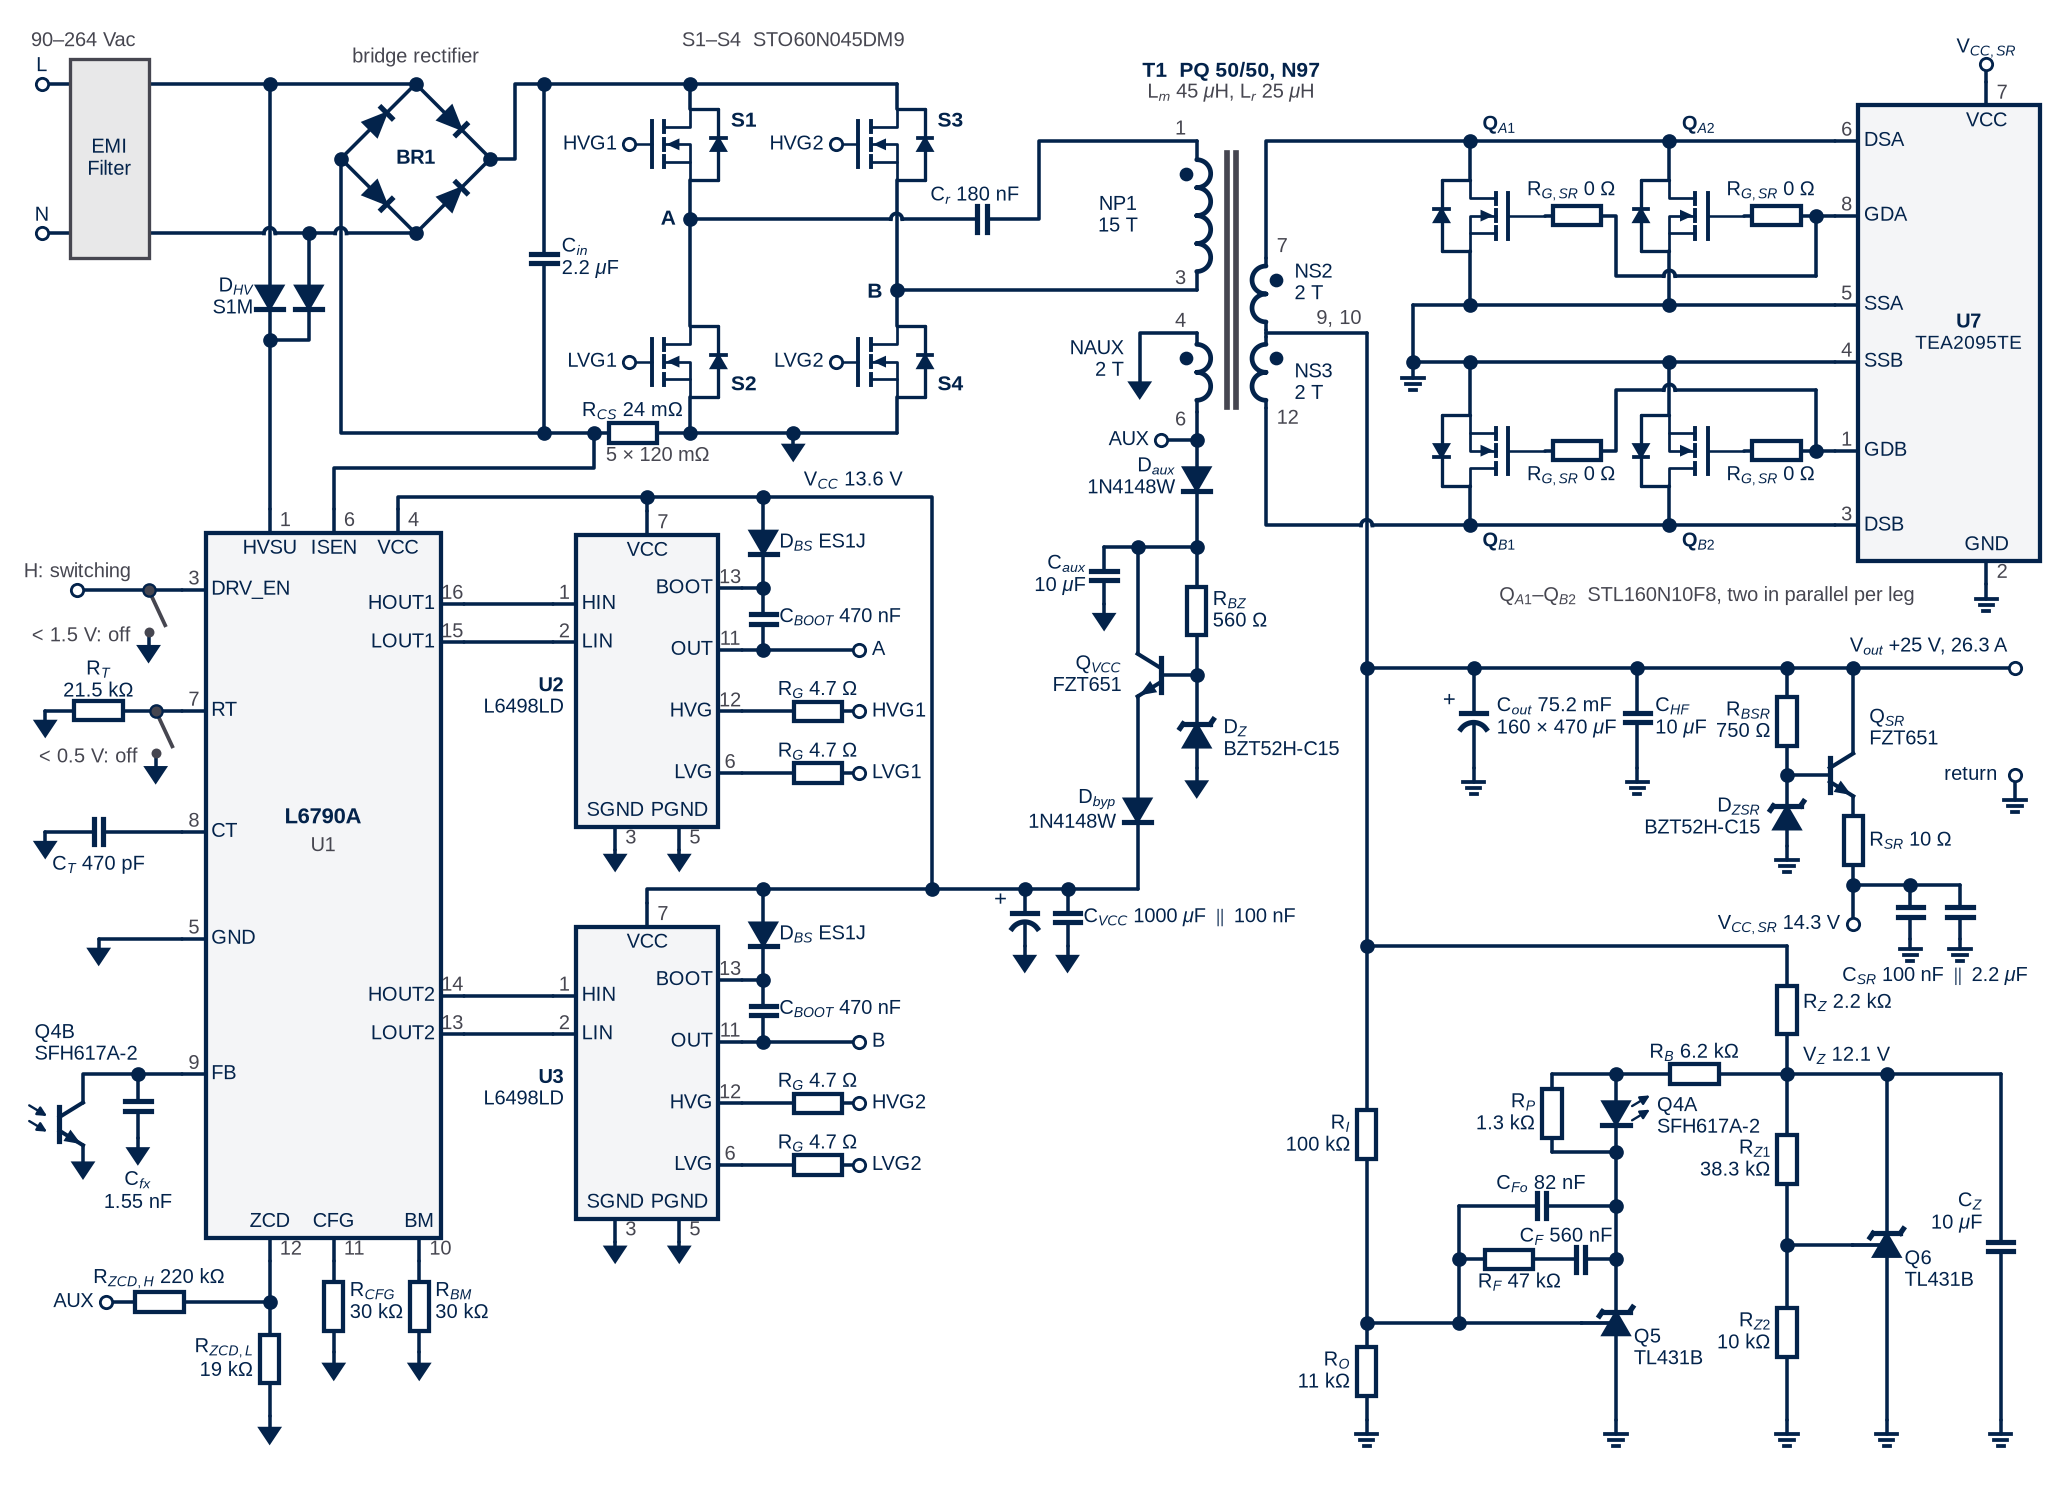
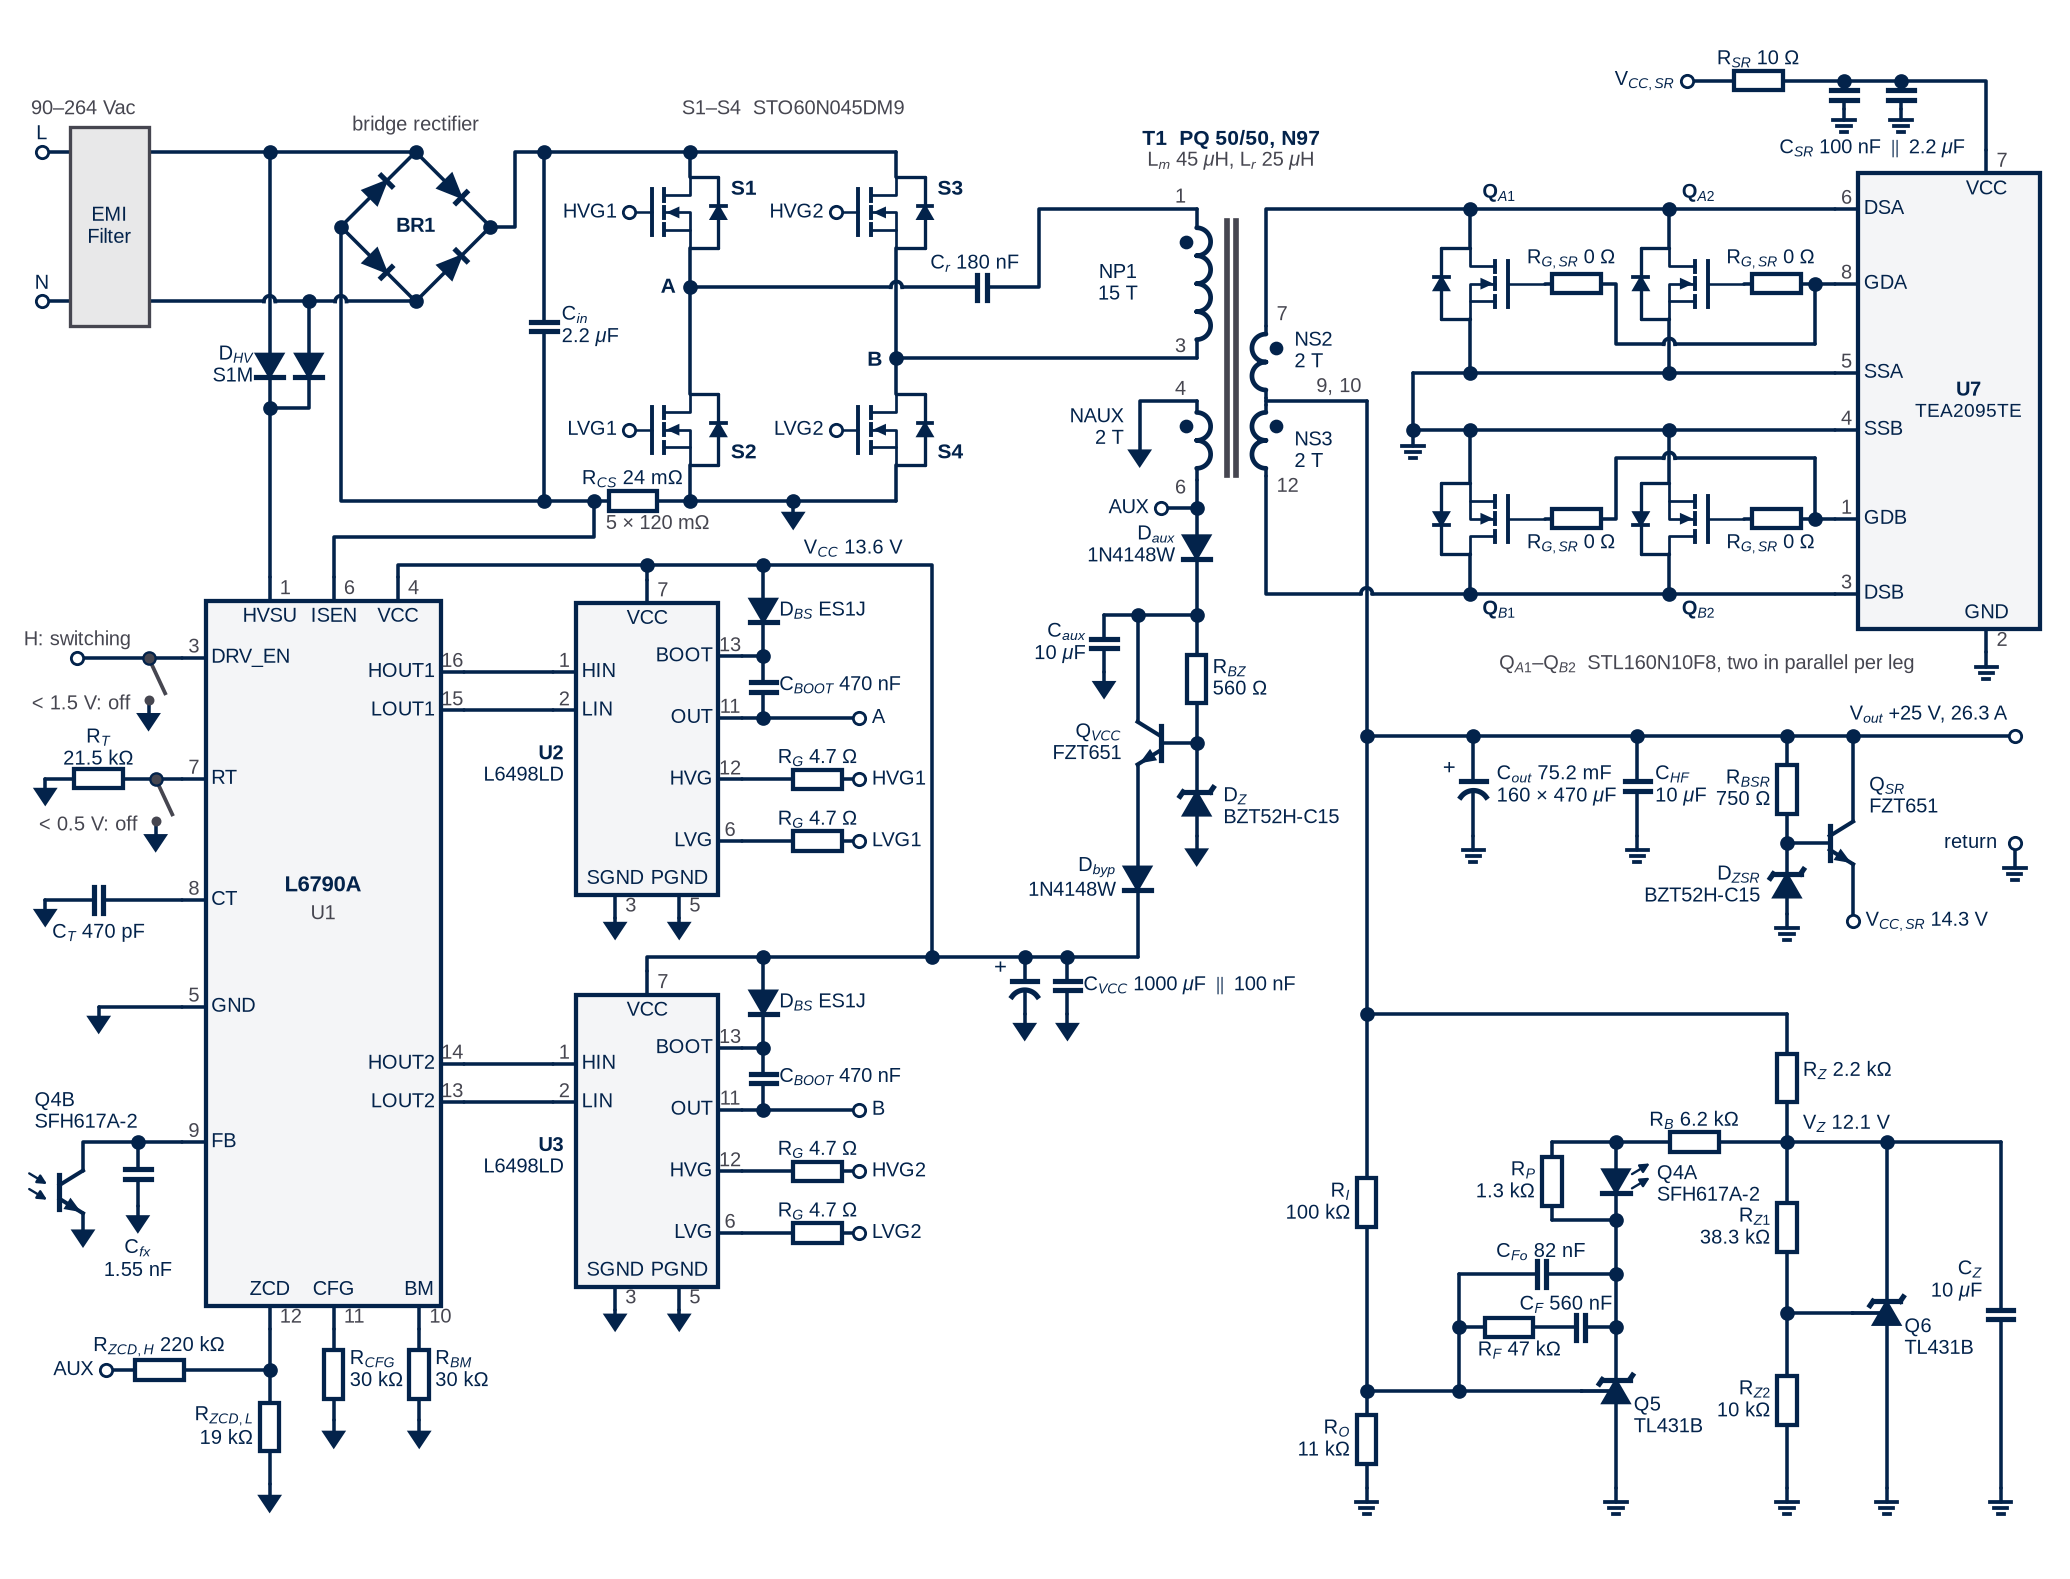
Round 84 (in progress): full schematic — page 1.9 taller, U7's RC filter back beside the IC in the top band with room, follower back to a plain flag
Claude-Session: https://claude.ai/code/session_01L3H8Na8buSZY2uPpuuSkn7

diff --git a/Design Guide/generators/figs_ref.py b/Design Guide/generators/figs_ref.py
@@ -4388,8 +4388,8 @@ def an_full(save, foot):
     import cores
     V = an_pdf.V
     _pm = cores.PINMAP
-    fig = plt.figure(figsize=(12.0, 8.7))
-    W, H = 56.7, 41.1
+    fig = plt.figure(figsize=(12.0, 9.1))
+    W, H = 56.7, 43.0                      # the top band holds U7's RC filter
     ax = _ax(fig, [0.005, 0.005, 0.99, 0.99], 0.0, W, 0.0, H)
     ax._sym_mult = 0.47
     ax._xf_mult = 0.37                   # turns 0.8 x the two-sheet drawing's
@@ -4840,12 +4840,24 @@ def an_full(save, foot):
     gx_, gy_ = c['GND']
     S.wire(ax, [(gx_, gy_), (gx_, gy_ - 0.4)])
     sg(gx_, gy_ - 0.4, 0.0)
-    #  VCC: a short stub up from the top pin to the net flag.  The RC
-    #  filter R_SR / C_SR sits at the follower (lower right), where there
-    #  is room; the an_sr_ctrl figure draws it at the pin.
+    #  VCC: up from the top pin into the band above the box - C_SR and its
+    #  bulk to ground, R_SR in the run out to the net flag: the RC filter
+    #  at the pin (14c.3), with air round every part
     vx, vy = c['VCC']
-    S.wire(ax, [(vx, vy), (vx, vy + 0.5)])
-    flag(vx, vy + 0.5, 'V$_{CC,SR}$', side='u')
+    YVS = 41.4
+    XSRb, XSR, XRS_, XFL = TX0 + 1.2, TX0 - 0.4, TX0 - 2.8, TX0 - 4.8
+    S.wire(ax, [(vx, vy), (vx, YVS), (XSR, YVS)])
+    for xc_ in (XSRb, XSR):
+        S.dot(ax, xc_, YVS)
+        vcap(xc_, YVS, YVS - 0.8)
+        sg(xc_, YVS - 0.8, 0.3)
+    S.label(ax, (XSR + XSRb) / 2.0, YVS - 1.9, 'C$_{SR}$ ' + _c(_sv('C.SR'))
+            + ' $\\parallel$ ' + _c(_sv('C.SRb') * 1e3), size=SN)
+    ra_, rb_ = S.res(ax, XRS_, YVS)
+    S.wire(ax, [(XSR, YVS), rb_])
+    S.wire(ax, [ra_, (XFL, YVS)])
+    S.label(ax, XRS_, YVS + 0.6, 'R$_{SR}$ ' + _r(_sv('R.SR')), size=SN)
+    flag(XFL, YVS, 'V$_{CC,SR}$', side='l')
 
     def pair(yc, ydrain, ysrc, flip, leg, hop_y, ds, gd, ss, xgnd):
         """two MOSFETs, each with its gate resistor on its own gate lead.
@@ -4937,26 +4949,8 @@ def an_full(save, foot):
     sg(XRB, 18.0, 0.4)
     S.label(ax, XRB - 0.75, 18.8, 'D$_{ZSR}$\nBZT52H-C15', size=SN,
             ha='right')
-    #  the RC filter of the SR supply (14c.3): R_SR in the emitter run, then
-    #  C_SR and its bulk to ground, the net on to U7's VCC pin
-    xe_, YNS = eq_[0], 16.9
-    ra_, rb_ = S.res(ax, xe_, (eq_[1] + YNS) / 2.0, horiz=False)
-    S.wire(ax, [eq_, rb_])
-    S.wire(ax, [ra_, (xe_, YNS)])
-    S.label(ax, xe_ + 0.45, (eq_[1] + YNS) / 2.0, 'R$_{SR}$ ' + _r(_sv('R.SR')),
-            size=SN, ha='left')
-    S.dot(ax, xe_, YNS)
-    XC1, XC2 = xe_ + 1.6, xe_ + 3.0
-    S.wire(ax, [(xe_, YNS), (XC2, YNS)])
-    for xc_ in (XC1, XC2):
-        if xc_ != XC2:
-            S.dot(ax, xc_, YNS)
-        vcap(xc_, YNS, YNS - 1.5)
-        sg(xc_, YNS - 1.5, 0.3)
-    S.label(ax, (XC1 + XC2) / 2.0, YNS - 2.55, 'C$_{SR}$ ' + _c(_sv('C.SR'))
-            + ' $\\parallel$ ' + _c(_sv('C.SRb') * 1e3), size=SN)
-    S.wire(ax, [(xe_, YNS), (xe_, YNS - 1.1)])
-    flag(xe_, YNS - 1.1, 'V$_{CC,SR}$ %.1f V' % _sv('V.SR'), side='l')
+    S.wire(ax, [eq_, (eq_[0], 17.8)])
+    flag(eq_[0], 17.8, 'V$_{CC,SR}$ %.1f V' % _sv('V.SR'))
     S.label(ax, eq_[0] + 0.45, 21.3, 'Q$_{SR}$\nFZT651', size=SN,
             ha='left')
 
